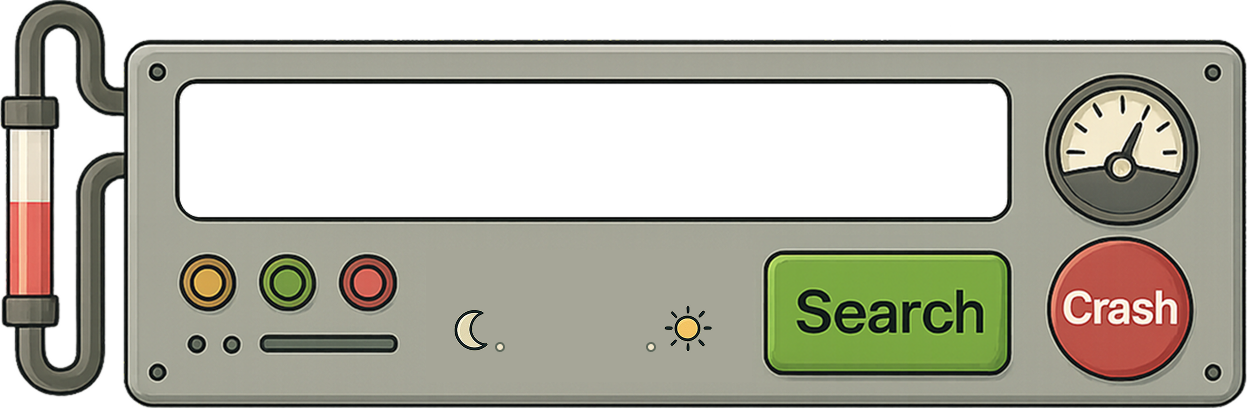
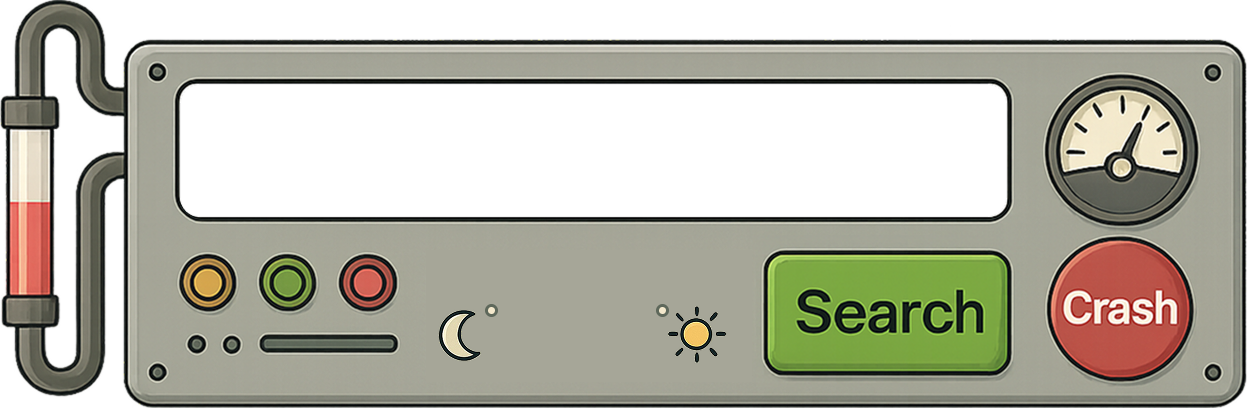
feat: add styling for dark theme for search component

Changed region(s): [[0.518, 0.7353, 0.579, 0.8824], [0.3352, 0.7353, 0.4266, 0.8824]]

diff --git a/src/components/search/search_form.tsx b/src/components/search/search_form.tsx
@@ -1,15 +1,22 @@
 import { useEffect } from 'react';
 import { useNavigate, useSearchParams } from 'react-router';
 
-import { AboutButton, useLocalStorage, ThemeButton } from '../';
+import { AboutButton, useLocalStorage, ThemeButton, useTheme } from '../';
 
-import deviceImg from '../../assets/search_device_desktop.png';
-import appLogo from '../../assets/app_logo.png';
+import {
+  deviceImg,
+  deviceImgDark,
+  appLogo,
+  searchBtnDark,
+  searchBtn,
+} from '../../assets/index';
 
 export default function SearchForm() {
   const [inputValue, setInputValue] = useLocalStorage('searchQuery', '');
   const navigate = useNavigate();
   const [searchParams, setSearchParams] = useSearchParams();
+  const { theme } = useTheme();
+  const imgDevice = theme === 'dark' ? deviceImgDark : deviceImg;
 
   useEffect(() => {
     const urlName = searchParams.get('name');
@@ -39,16 +46,23 @@ export default function SearchForm() {
       </h1>
 
       <div className="device-frame">
-        <img src={deviceImg} alt="Device" className="device-no-bg" />
+        <img src={imgDevice} alt="Device" className="device-no-bg" />
         <form onSubmit={handleSubmit}>
           <input
-            className="search-input"
+            className="search-input bg-[var(--Background-light)] dark:bg-[var(--Background-dark)] dark:text-[var(--Font-color-basic-dark)] placeholder-[var(--Font-color-secondary)] dark:placeholder-[var(--Font-color-basic-dark)]"
             value={inputValue as string}
             onChange={handleInputChange}
             placeholder="Search for a character..."
             type="text"
           />
-          <button className="search-btn" type="submit" aria-label="Search" />
+          <button
+            style={{
+              backgroundImage: `url(${theme === 'dark' ? searchBtnDark : searchBtn})`,
+            }}
+            className="search-btn dark:scale-[1.1]"
+            type="submit"
+            aria-label="Search"
+          />
         </form>
         <AboutButton />
         <ThemeButton />

diff --git a/src/components/shared/theme_button.tsx b/src/components/shared/theme_button.tsx
@@ -1,7 +1,11 @@
 import { useTheme } from '../';
 
-import themeBtn from '../../assets/theme_button.png';
-import themeArrow from '../../assets/theme_arrow.png';
+import {
+  themeBtn,
+  themeArrow,
+  themeArrowDark,
+  themeBtnDark,
+} from '../../assets/index';
 
 export default function ThemeButton() {
   const { theme, toggleTheme } = useTheme();
@@ -10,15 +14,17 @@ export default function ThemeButton() {
     <>
       <button
         aria-label="Toggle theme"
-        style={{ backgroundImage: `url(${themeBtn})` }}
-        className="absolute top-[58.5%] left-[36%] w-[20%] h-[37%] border-none bg-contain bg-no-repeat bg-center cursor-pointer pointer-events-auto transition-transform hover:scale-105 hover:brightness-110"
+        style={{
+          backgroundImage: `url(${theme === 'dark' ? themeBtnDark : themeBtn})`,
+        }}
+        className="absolute top-[58.5%] left-[36.2%] w-[20%] h-[37%] border-none bg-contain bg-no-repeat bg-center cursor-pointer pointer-events-auto transition-transform hover:scale-105 hover:brightness-110"
         onClick={() => toggleTheme(theme === 'light' ? 'dark' : 'light')}
       >
         <img
           style={{
             transform: theme === 'dark' ? 'rotate(-150deg)' : 'rotate(2deg)',
           }}
-          src={themeArrow}
+          src={theme === 'dark' ? themeArrowDark : themeArrow}
           alt="Theme Arrow"
           className={`absolute w-36 h-36 top-[-1%] left-[15%] transition-transform rotate-[42deg] `}
         />

diff --git a/src/pages/app.css b/src/pages/app.css
@@ -35,16 +35,6 @@
   font-size: 62.5%;
 }
 
-body {
-  font-family: 'Comic Neue', cursive, 'Comic Sans MS', 'Comic Sans', sans-serif;
-  background-color: var(--Background-light);
-  color: var(--Font-color-basic);
-  margin: 0 auto;
-  padding: 0;
-  min-height: 100vh;
-  max-width: 102.4rem;
-}
-
 .app {
   padding: 1.6rem;
   position: relative;
@@ -102,7 +92,6 @@ body {
   height: 33.8%;
   font-size: clamp(1.6rem, 3vw, 2.4rem);
   font-family: 'Share Tech Mono', monospace;
-  background-color: var(--Background-light);
   color: var(--Font-color-basic);
   padding: 0.5rem 4% 0.5rem 4%;
   border-radius: clamp(6px, calc(-1.608px + 1.902vw), 13px);
@@ -111,7 +100,6 @@ body {
 }
 
 .search-input::placeholder {
-  color: var(--Font-color-secondary);
   transition:
     color 0.2s ease,
     text-shadow 0.5s ease;
@@ -136,7 +124,6 @@ body {
   width: 20%;
   height: 37%;
   border: none;
-  background-image: url('/src/assets/search_button.png');
   background-size: contain;
   background-repeat: no-repeat;
   background-position: center;
@@ -156,7 +143,6 @@ body {
   width: 12%;
   height: 35.9%;
   border: none;
-  background-image: url('/src/assets/about_button.png');
   background-size: contain;
   background-repeat: no-repeat;
   background-position: center;
@@ -199,8 +185,6 @@ body {
   display: flex;
   flex-direction: column;
   align-items: center;
-  color: var(--Font-color-basic);
-  border: 1px solid #333;
   border-radius: 1.6rem;
   height: 24rem;
   width: 14.4rem;

diff --git a/src/pages/app.tsx b/src/pages/app.tsx
@@ -14,16 +14,20 @@ export default function App() {
   return (
     <>
       <ThemeProvider>
-        <BrowserRouter>
-          <Routes>
-            <Route path="/" element={<SearchLayout />}>
-              <Route index element={<SearchRequest />} />
-            </Route>
+        <div className="bg-[var(--Background-light)] text-[var(--Font-color-basic)] dark:bg-[var(--Background-dark)] dark:text-[var(--Font-color-basic-dark)] min-h-screen w-full">
+          <div className="max-w-[102.4rem] mx-auto p-4">
+            <BrowserRouter>
+              <Routes>
+                <Route path="/" element={<SearchLayout />}>
+                  <Route index element={<SearchRequest />} />
+                </Route>
 
-            <Route path="/about" element={<AboutPage />} />
-            <Route path="*" element={<NotFoundPage />} />
-          </Routes>
-        </BrowserRouter>
+                <Route path="/about" element={<AboutPage />} />
+                <Route path="*" element={<NotFoundPage />} />
+              </Routes>
+            </BrowserRouter>
+          </div>
+        </div>
       </ThemeProvider>
     </>
   );

diff --git a/src/assets/index.ts b/src/assets/index.ts
@@ -1,6 +1,14 @@
 export { default as appLogo } from '../assets/app_logo.png';
 export { default as myCharacter } from '../assets/my_character_portrait.png';
-export { default as carouselImg2 } from '../assets/character_rick_morty2.png';
+export { default as carouselImg2 } from '../assets/character_rick_morty.png';
 export { default as reprogramming } from '../assets/reprogramming_line.png';
 export { default as portal } from '../assets/portal_background.png';
 export { default as wallCrack } from '../assets/wall_crack.png';
+export { default as deviceImg } from '../assets/search_device_desktop.png';
+export { default as deviceImgDark } from '../assets/search_device_desktop_dark.png';
+export { default as searchBtn } from '../assets/search_button.png';
+export { default as searchBtnDark } from '../assets/search_button_dark.png';
+export { default as themeBtn } from '../assets/theme_button.png';
+export { default as themeArrow } from '../assets/theme_arrow.png';
+export { default as themeBtnDark } from '../assets/theme_button_dark.png';
+export { default as themeArrowDark } from '../assets/theme_arrow_dark.png';

diff --git a/src/components/shared/about_button.tsx b/src/components/shared/about_button.tsx
@@ -1,6 +1,11 @@
 import { useNavigate } from 'react-router';
+import { useTheme } from '../../hooks/use_theme';
 
-export default function CrashButton() {
+import aboutBtn from '../../assets/about_button.png';
+import aboutBtnDark from '../../assets/about_button_dark.png';
+
+export default function AboutButton() {
+  const { theme } = useTheme();
   const navigate = useNavigate();
   function clickHandle() {
     navigate('/about');
@@ -8,7 +13,10 @@ export default function CrashButton() {
 
   return (
     <button
-      className="about-btn"
+      style={{
+        backgroundImage: `url(${theme === 'dark' ? aboutBtnDark : aboutBtn})`,
+      }}
+      className="about-btn dark:scale-[1.15]"
       onClick={clickHandle}
       aria-label="About author"
     />

diff --git a/src/components/display/results_list.tsx b/src/components/display/results_list.tsx
@@ -41,7 +41,7 @@ export default function ResultsList(props: ResultsListProps) {
               onClick={() => handleCardClick(name, page, character.id)}
               key={index}
               className={
-                'bg-[var(--Card-background)] dark:bg-[var(--Card-background-dark)] shadow-[0_4px_6px_rgba(0,0,0,0.5)] dark:shadow-[0_4px_6px_rgba(255,255,255,0.5)] character-card'
+                'bg-[var(--Card-background)] dark:bg-[var(--Card-background-dark)] shadow-[0_4px_6px_rgba(0,0,0,0.5)] dark:shadow-[0_4px_6px_yellow-200] border border-solid border-hsl(0, 0%, 20%) dark:border-yellow-600 character-card'
               }
               data-testid="character-card"
             >
